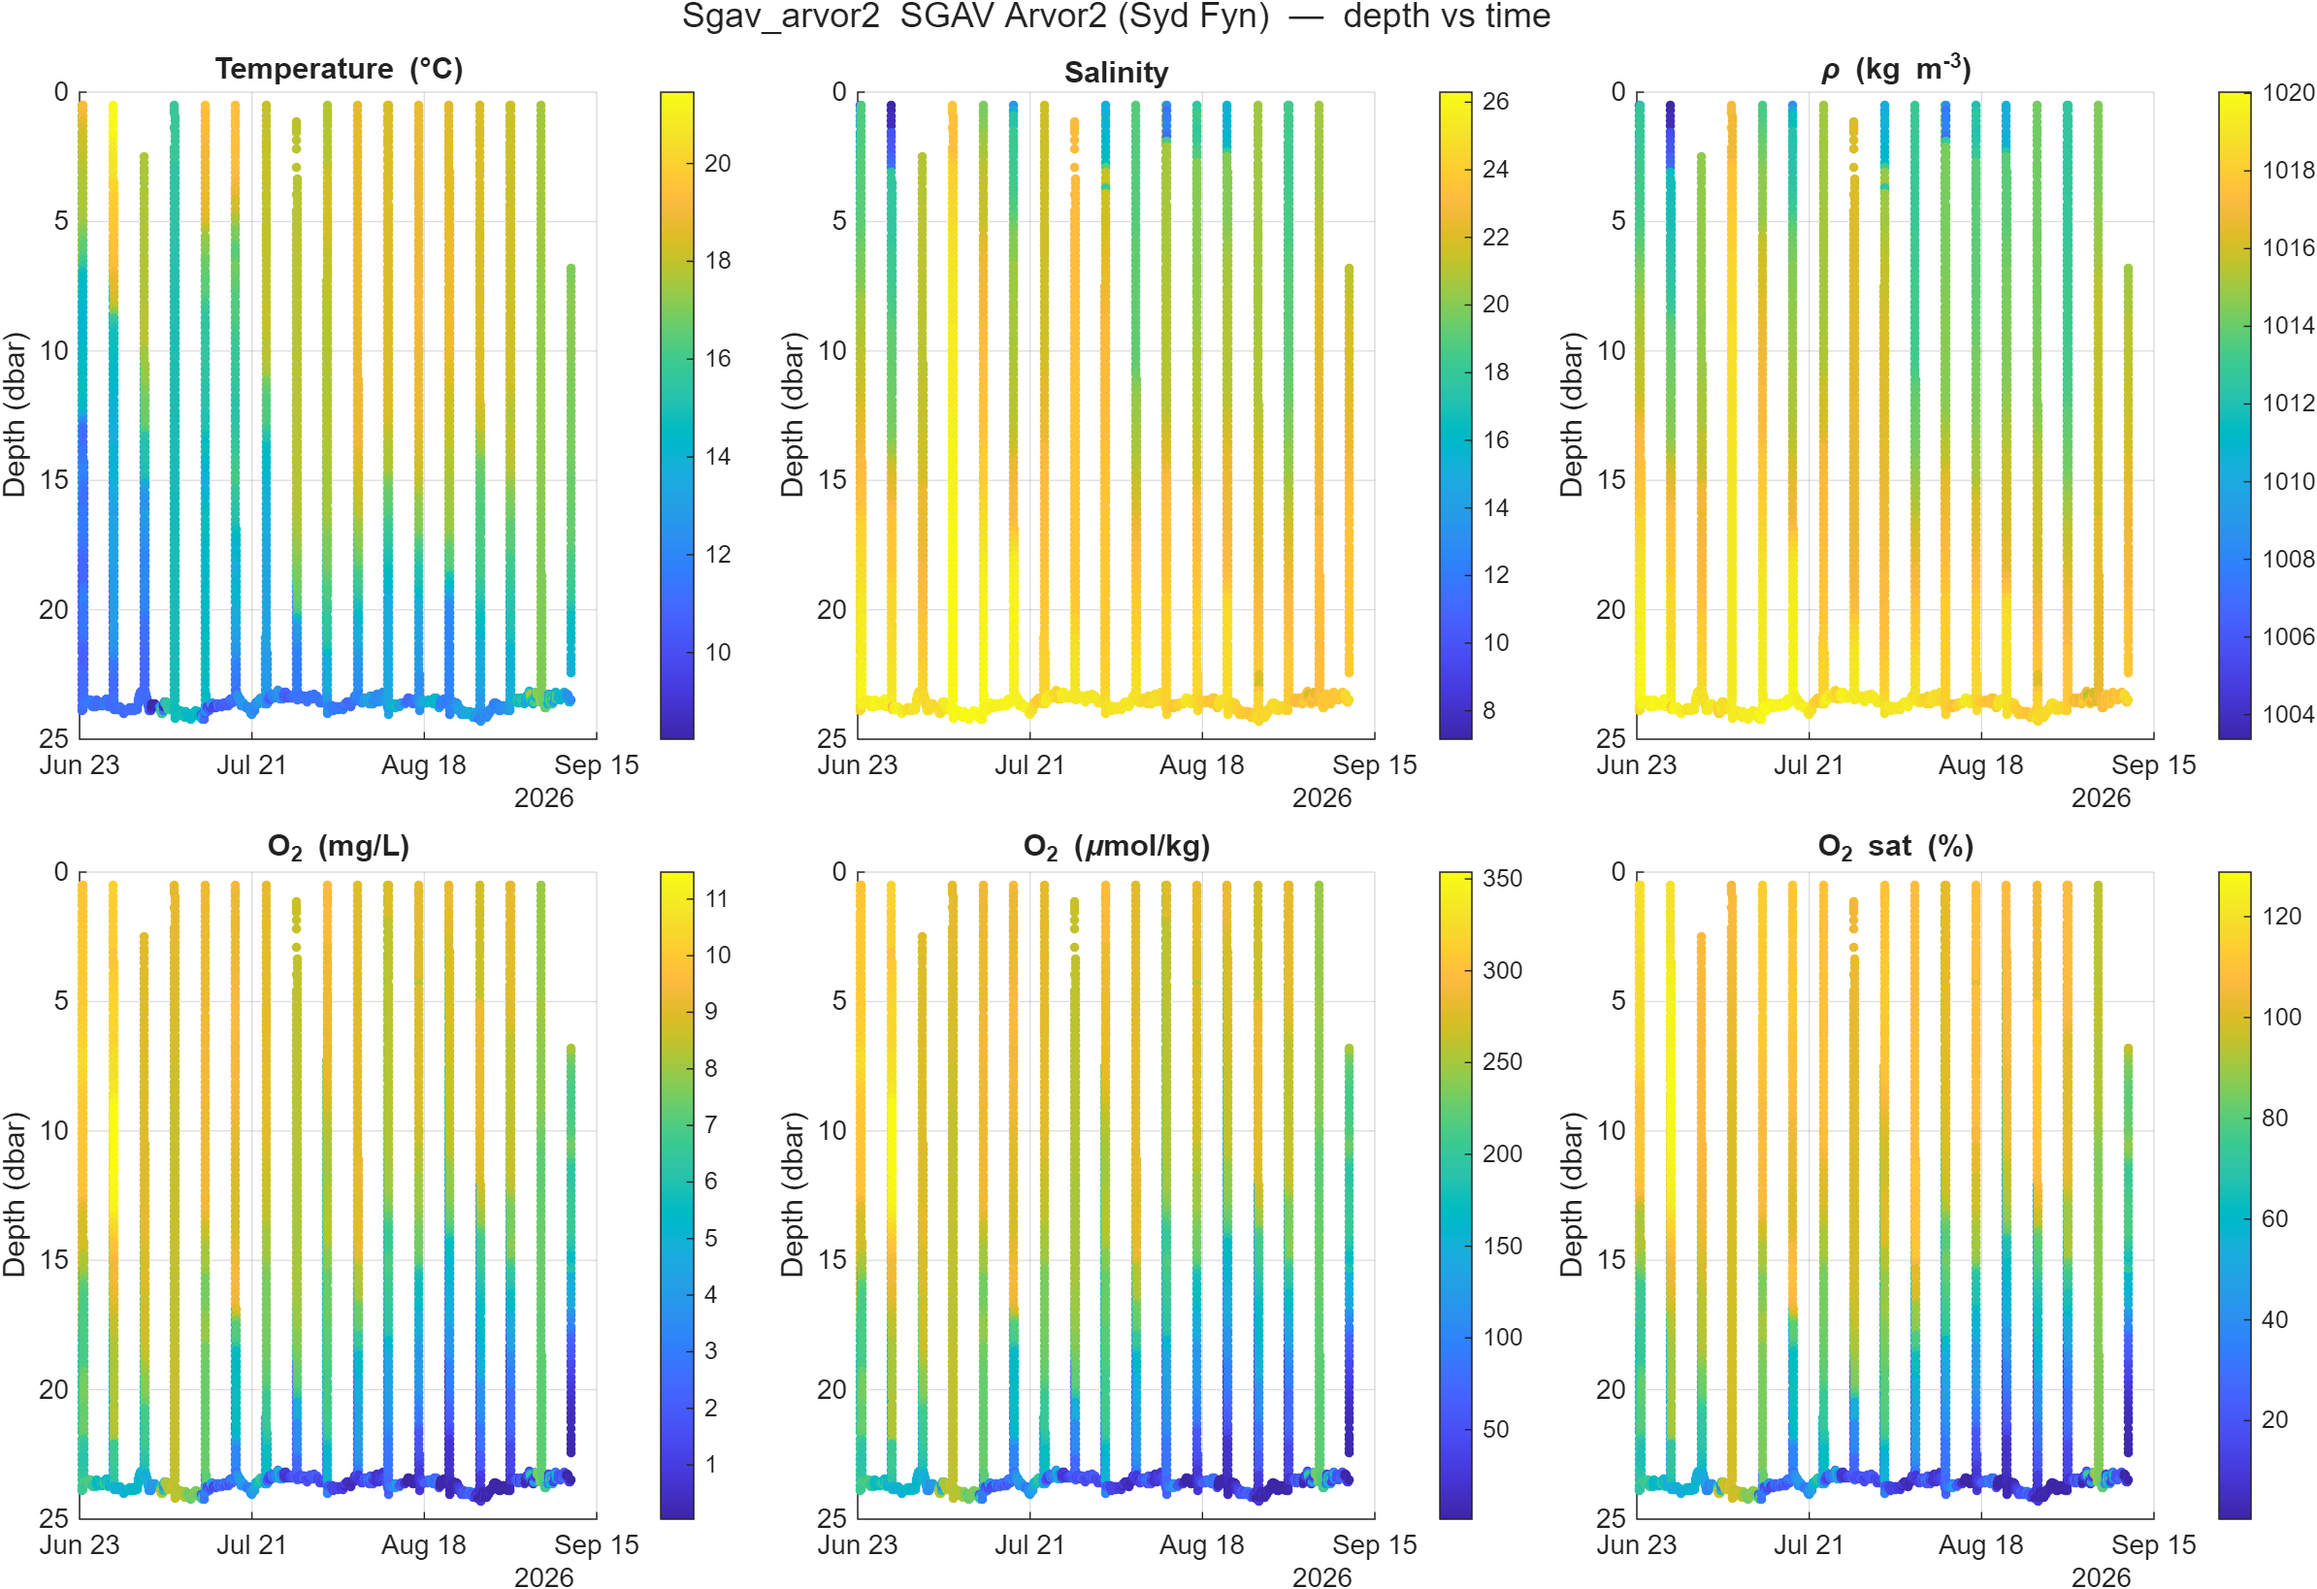
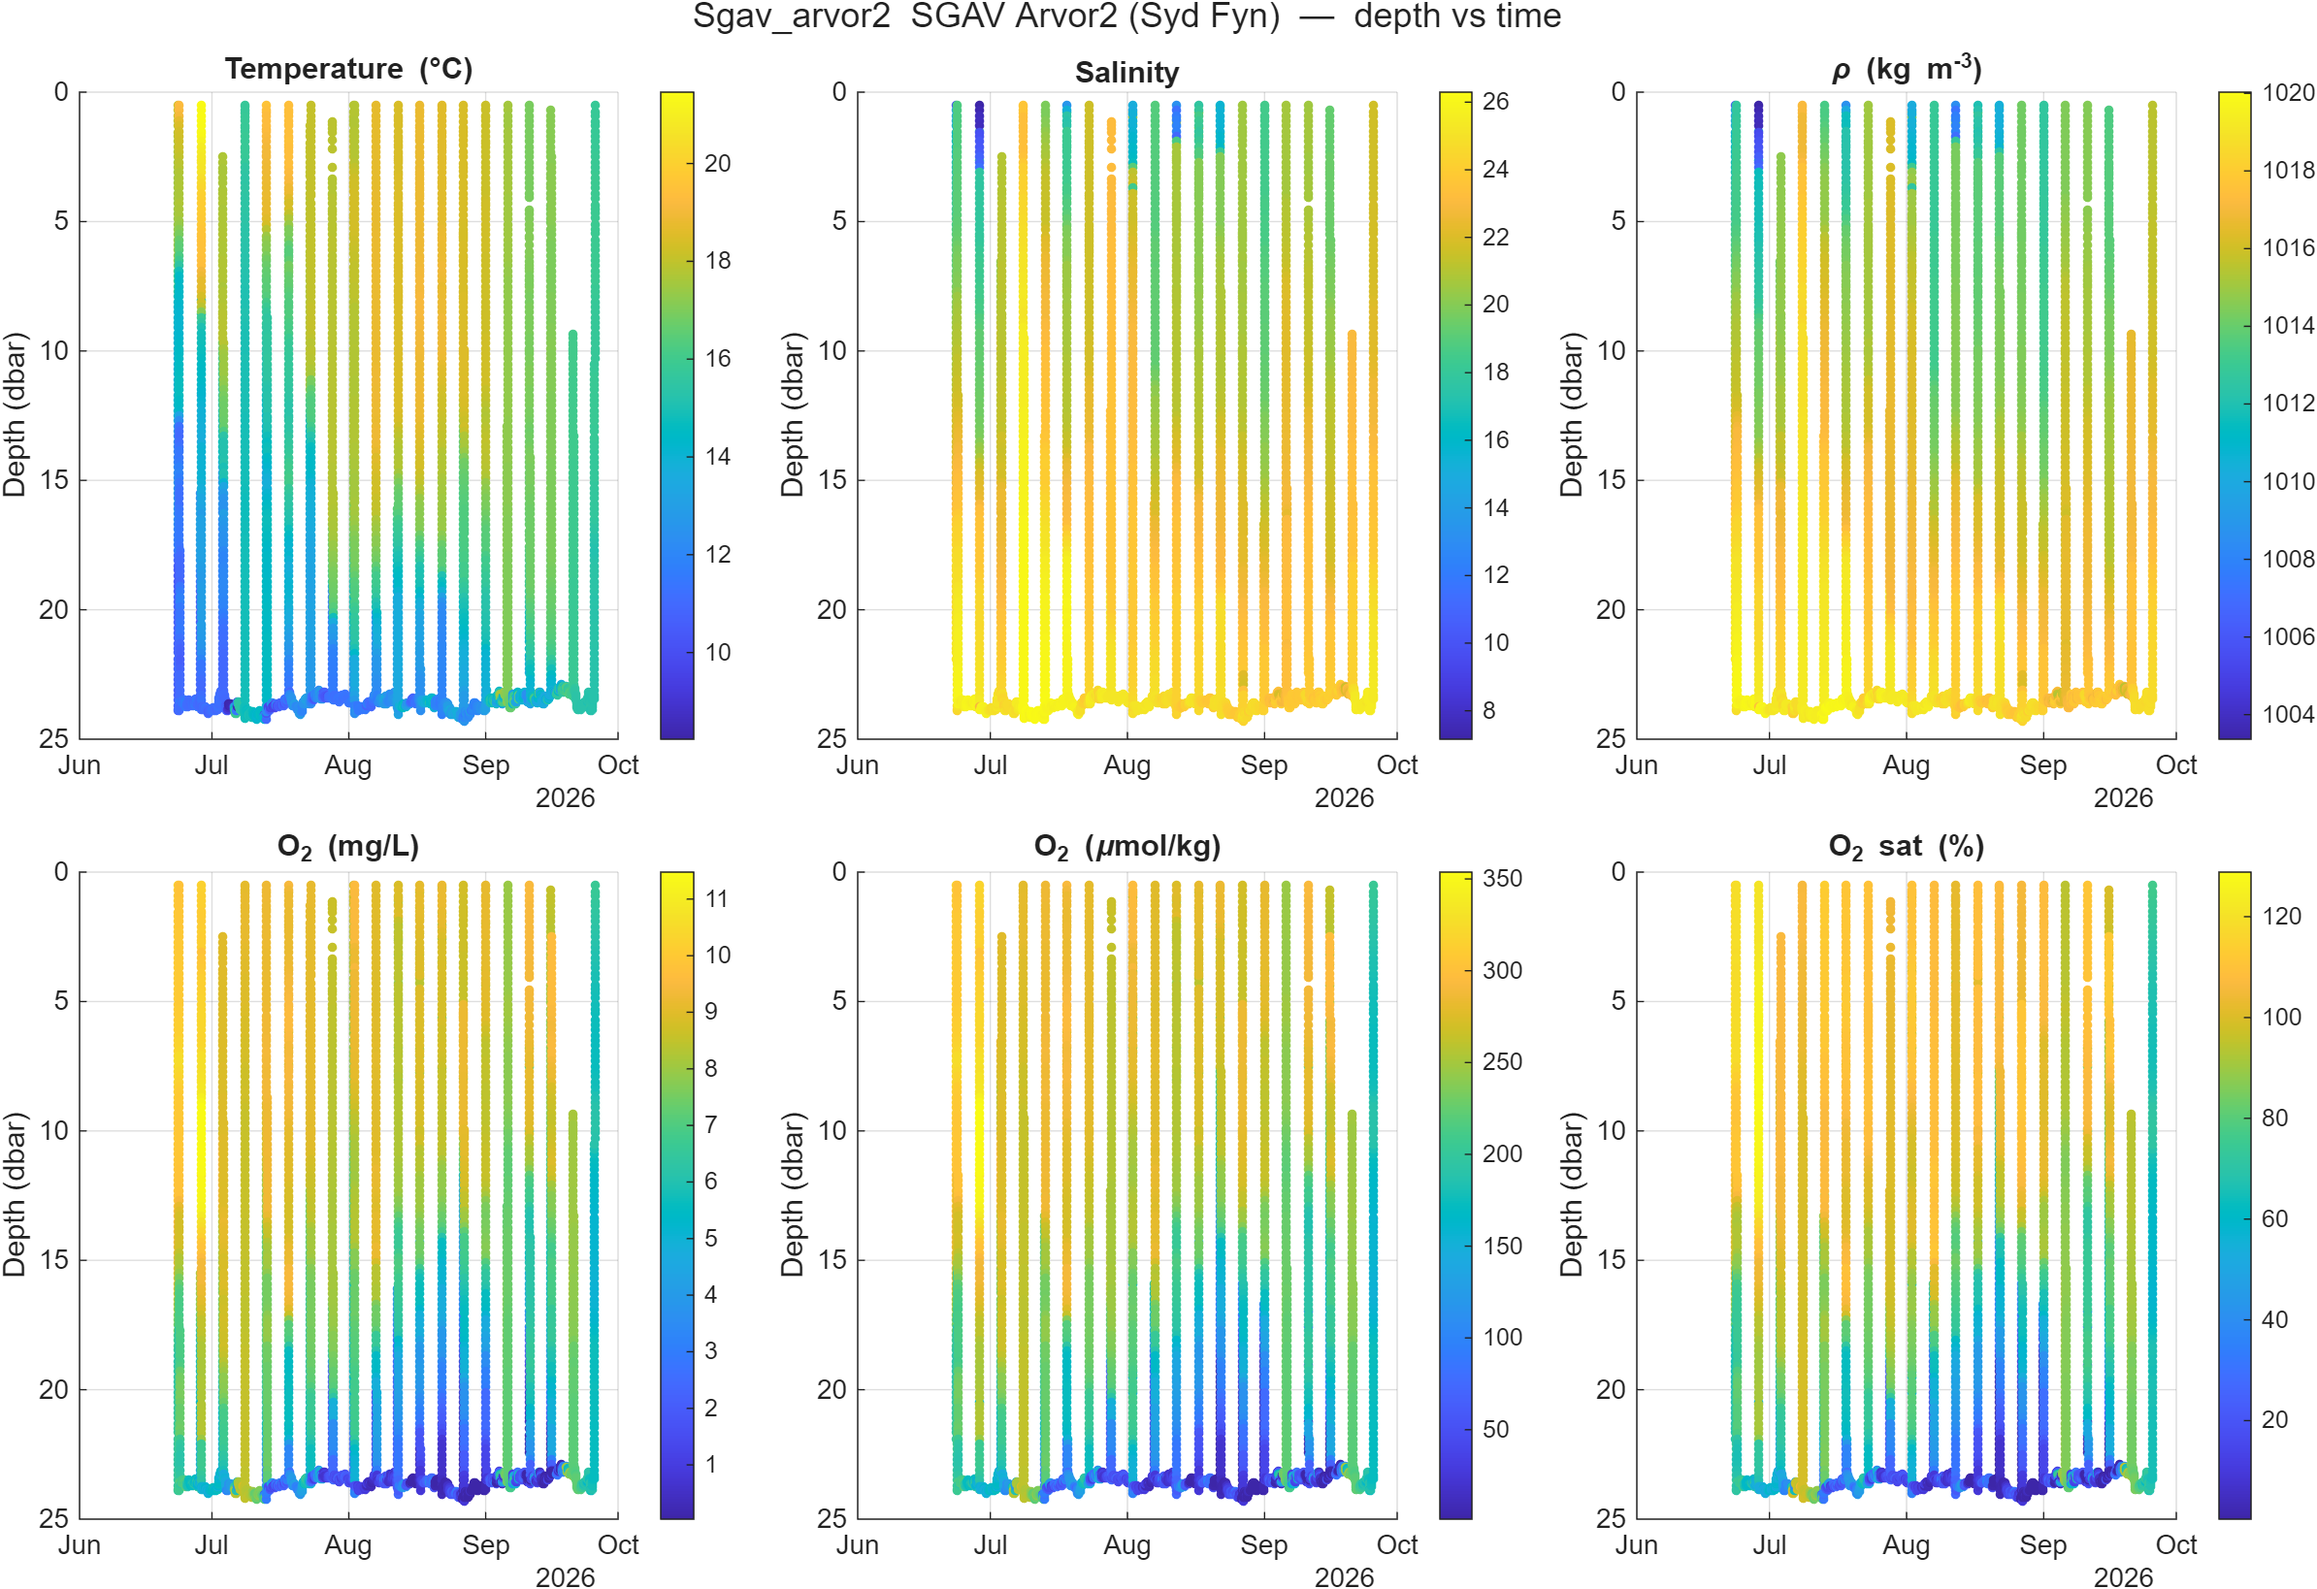
data update, only lillebelt

diff --git a/data.js b/data.js
@@ -15,7 +15,7 @@
 //   graphs        [{label, src}, ...] figures for the fold-out
 //   notes         free text from floats_config.csv
 
-const floatUpdated = "2026-09-25 14:11";
+const floatUpdated = "2026-09-29 11:45";
 
 const floatData = [
   {
@@ -32,7 +32,7 @@ const floatData = [
     "location": "69.983° N, 18.461° W",
     "deployment_date": "2025-05-27",
     "last_surface": "2026-09-22 15:10",
-    "days_since": 3,
+    "days_since": 6.9,
     "next_surface": "2026-09-27 14:10",
     "next_surface_source": "nke cycle period",
     "n_profiles": 100,
@@ -473,7 +473,7 @@ const floatData = [
     "location": "67.522° N, 19.918° W",
     "deployment_date": "2025-02-10",
     "last_surface": "2026-09-24 12:37",
-    "days_since": 1.1,
+    "days_since": 5,
     "next_surface": "2026-09-29 11:37",
     "next_surface_source": "nke cycle period",
     "n_profiles": 121,
@@ -998,7 +998,7 @@ const floatData = [
     "location": "78.691° N, 11.255° W",
     "deployment_date": "2025-08-04",
     "last_surface": "2026-09-01 04:35",
-    "days_since": 24.4,
+    "days_since": 28.3,
     "next_surface": "2026-09-06 03:35",
     "next_surface_source": "nke cycle period",
     "n_profiles": 81,
@@ -1367,7 +1367,7 @@ const floatData = [
     "location": "73.640° N, 13.315° W",
     "deployment_date": "2025-10-30",
     "last_surface": "2026-09-23 09:01",
-    "days_since": 2.2,
+    "days_since": 6.1,
     "next_surface": "2026-09-28 08:01",
     "next_surface_source": "nke cycle period",
     "n_profiles": 66,
@@ -1672,7 +1672,7 @@ const floatData = [
     "location": "77.333° N, 70.631° W",
     "deployment_date": "2025-08-13",
     "last_surface": "2026-09-24 02:24",
-    "days_since": 1.5,
+    "days_since": 5.4,
     "next_surface": "2026-09-29 01:24",
     "next_surface_source": "nke cycle period",
     "n_profiles": 62,
@@ -1965,7 +1965,7 @@ const floatData = [
     "location": "74.341° N, 20.325° W",
     "deployment_date": "2025-08-17",
     "last_surface": "2026-09-22 17:20",
-    "days_since": 2.9,
+    "days_since": 6.8,
     "next_surface": "2026-10-02 12:20",
     "next_surface_source": "nke cycle period",
     "n_profiles": 41,
@@ -2174,7 +2174,7 @@ const floatData = [
     "location": "56.325° N, 19.386° E",
     "deployment_date": "2024-11-25",
     "last_surface": "2026-09-20 17:39",
-    "days_since": 4.9,
+    "days_since": 8.8,
     "next_surface": "2026-09-25 12:39",
     "next_surface_source": "nke cycle period",
     "n_profiles": 143,
@@ -2778,15 +2778,15 @@ const floatData = [
     "region": "denmark",
     "status": "active",
     "status_note": "",
-    "latitude": 55.2006,
-    "longitude": 9.7527,
-    "location": "55.201° N, 9.753° E",
+    "latitude": 55.2011,
+    "longitude": 9.7524,
+    "location": "55.201° N, 9.752° E",
     "deployment_date": "2026-06-23",
-    "last_surface": "2026-09-10 21:39",
-    "days_since": 14.7,
-    "next_surface": "2026-09-15 20:31",
+    "last_surface": "2026-09-25 17:38",
+    "days_since": 3.8,
+    "next_surface": "2026-09-30 16:29",
     "next_surface_source": "median cycle interval",
-    "n_profiles": 17,
+    "n_profiles": 20,
     "track": [
       [
         55.2012,
@@ -2855,6 +2855,18 @@ const floatData = [
       [
         55.2006,
         9.7527
+      ],
+      [
+        55.2011,
+        9.7524
+      ],
+      [
+        55.2011,
+        9.7524
+      ],
+      [
+        55.2011,
+        9.7524
       ]
     ],
     "trajectory": "assets/plots/Sgav_arvor2/Sgav_arvor2_map.png",
@@ -2864,8 +2876,8 @@ const floatData = [
         "src": "assets/plots/Sgav_arvor2/Sgav_arvor2_sections.png"
       },
       {
-        "label": "Profile 017  (2026-09-10)",
-        "src": "assets/plots/Sgav_arvor2/Sgav_arvor2_profile_017_2026-09-10.png"
+        "label": "Profile 020  (2026-09-25)",
+        "src": "assets/plots/Sgav_arvor2/Sgav_arvor2_profile_020_2026-09-25.png"
       }
     ],
     "notes": "PFV2 python parser"
@@ -2884,7 +2896,7 @@ const floatData = [
     "location": "54.987° N, 10.229° E",
     "deployment_date": "2026-06-24",
     "last_surface": "2026-09-23 01:41",
-    "days_since": 2.5,
+    "days_since": 6.4,
     "next_surface": "2026-09-28 01:37",
     "next_surface_source": "median cycle interval",
     "n_profiles": 19,
@@ -2987,13 +2999,13 @@ const floatData = [
     "sensors": "bgc",
     "region": "denmark",
     "status": "inactive",
-    "status_note": "no transmission for 446 days — no next surfacing predicted",
+    "status_note": "no transmission for 450 days — no next surfacing predicted",
     "latitude": 55.1358,
     "longitude": 14.5121,
     "location": "55.136° N, 14.512° E",
     "deployment_date": "2023-11-07",
     "last_surface": "2025-07-06 10:58",
-    "days_since": 446.1,
+    "days_since": 450,
     "next_surface": "",
     "next_surface_source": "",
     "n_profiles": 190,
